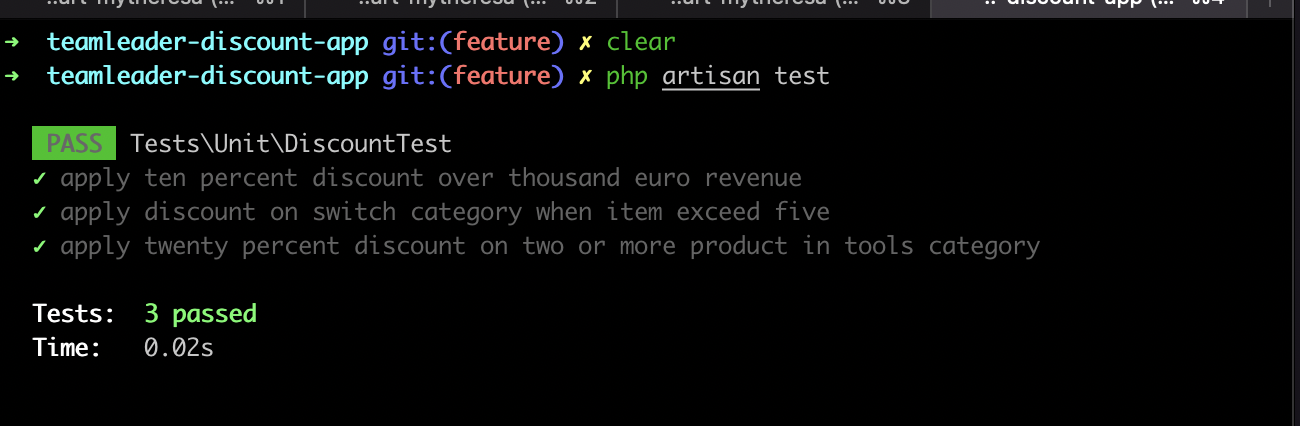
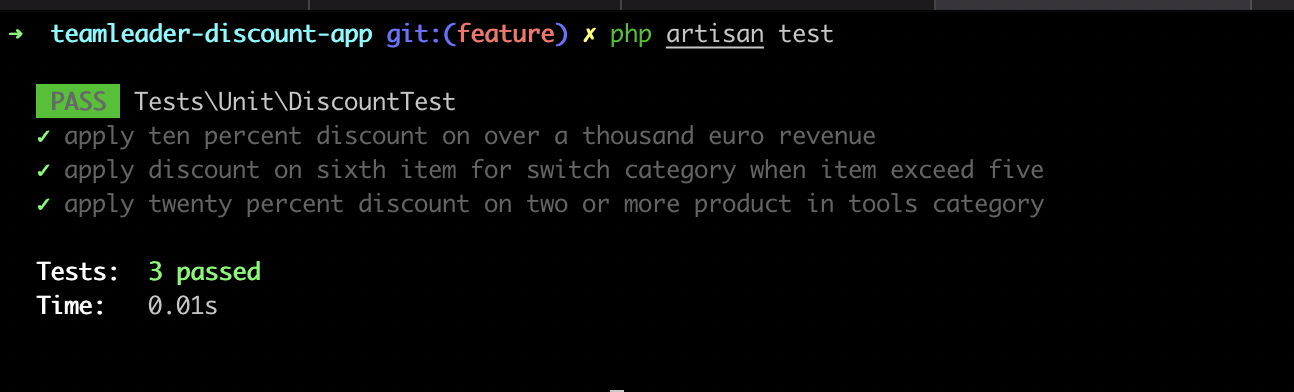
fix typo on test name

Changed region(s): [[0.0, 0.1531, 0.8037, 0.6122], [0.0, 0.0, 1.0, 1.0], [0.0309, 0.6735, 0.2164, 0.8571]]

diff --git a/tests/Unit/DiscountTest.php b/tests/Unit/DiscountTest.php
@@ -10,7 +10,7 @@ class DiscountTest extends TestCase
     protected $discount;
     protected $data;
 
-    public function testApplyTenPercentDiscountOverThousandEuroRevenue()
+    public function testApplyTenPercentDiscountOnOverAThousandEuroRevenue()
     {
        $data = [
             'customer-revenue' => 1501.44,
@@ -23,7 +23,7 @@ class DiscountTest extends TestCase
         $this->assertEquals(23.59, round($discount, 2));
     }
 
-    public function testApplyDiscountOnSwitchCategoryWhenItemExceedFive()
+    public function testApplyDiscountOnSixthItemForSwitchCategoryWhenItemExceedFive()
     {
         $order_items = [
             [
